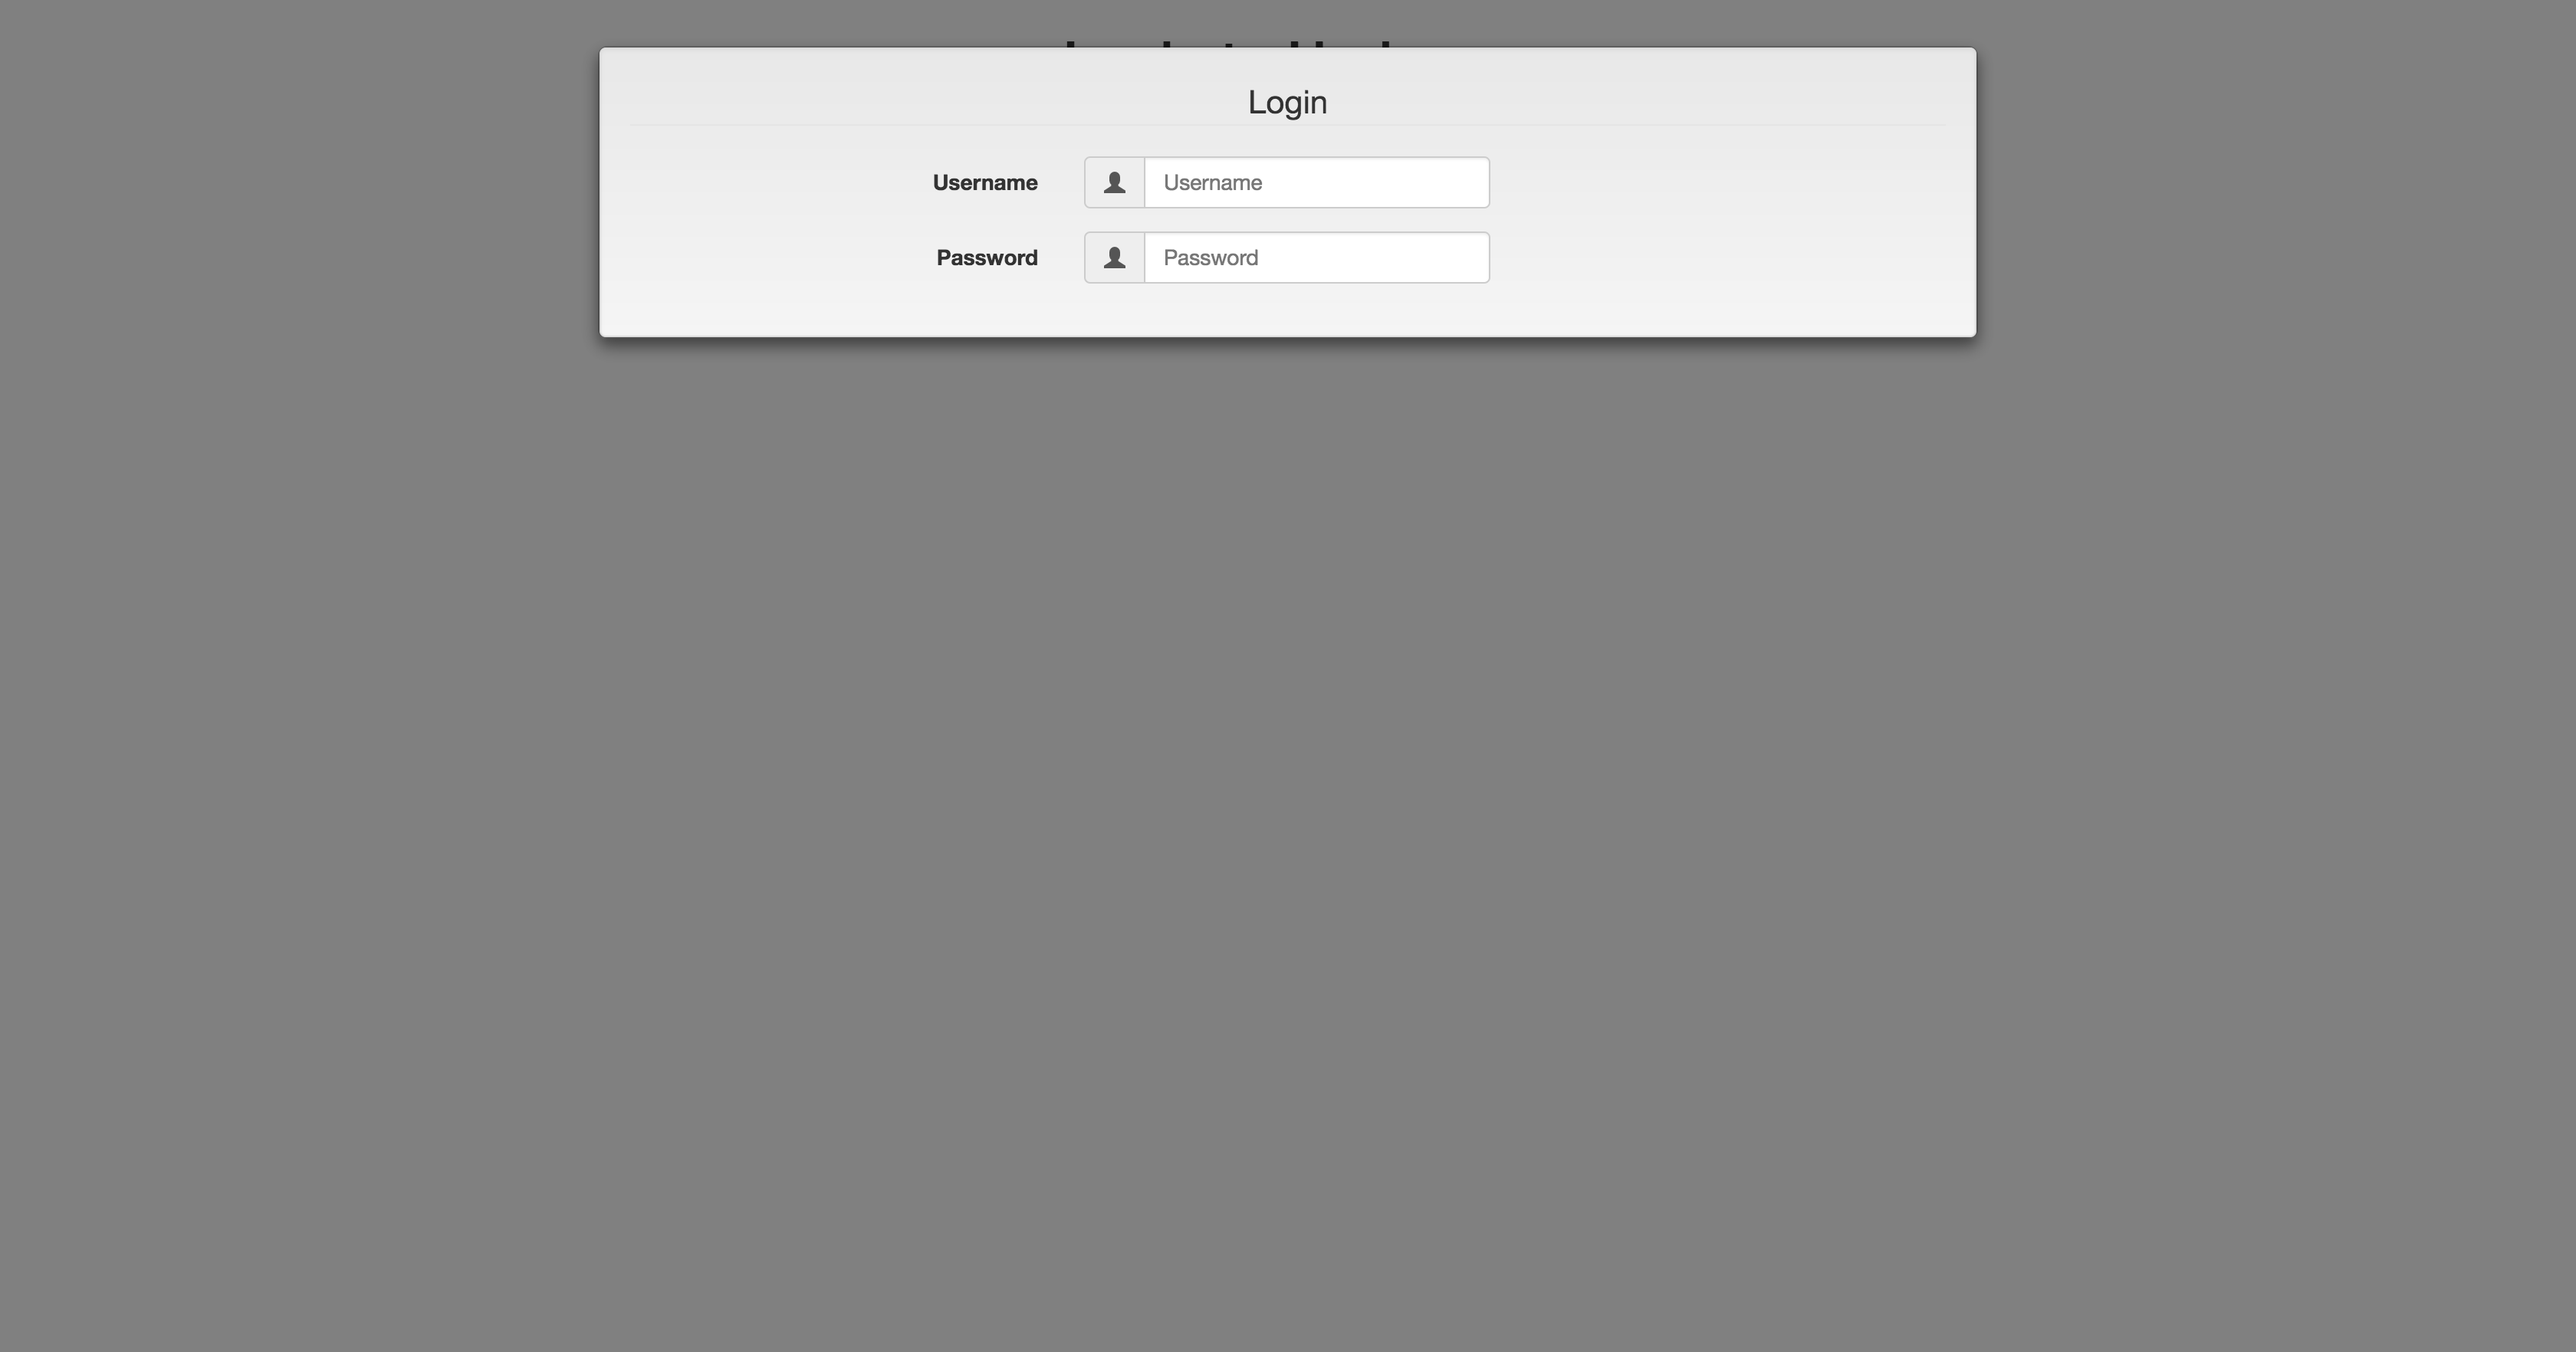
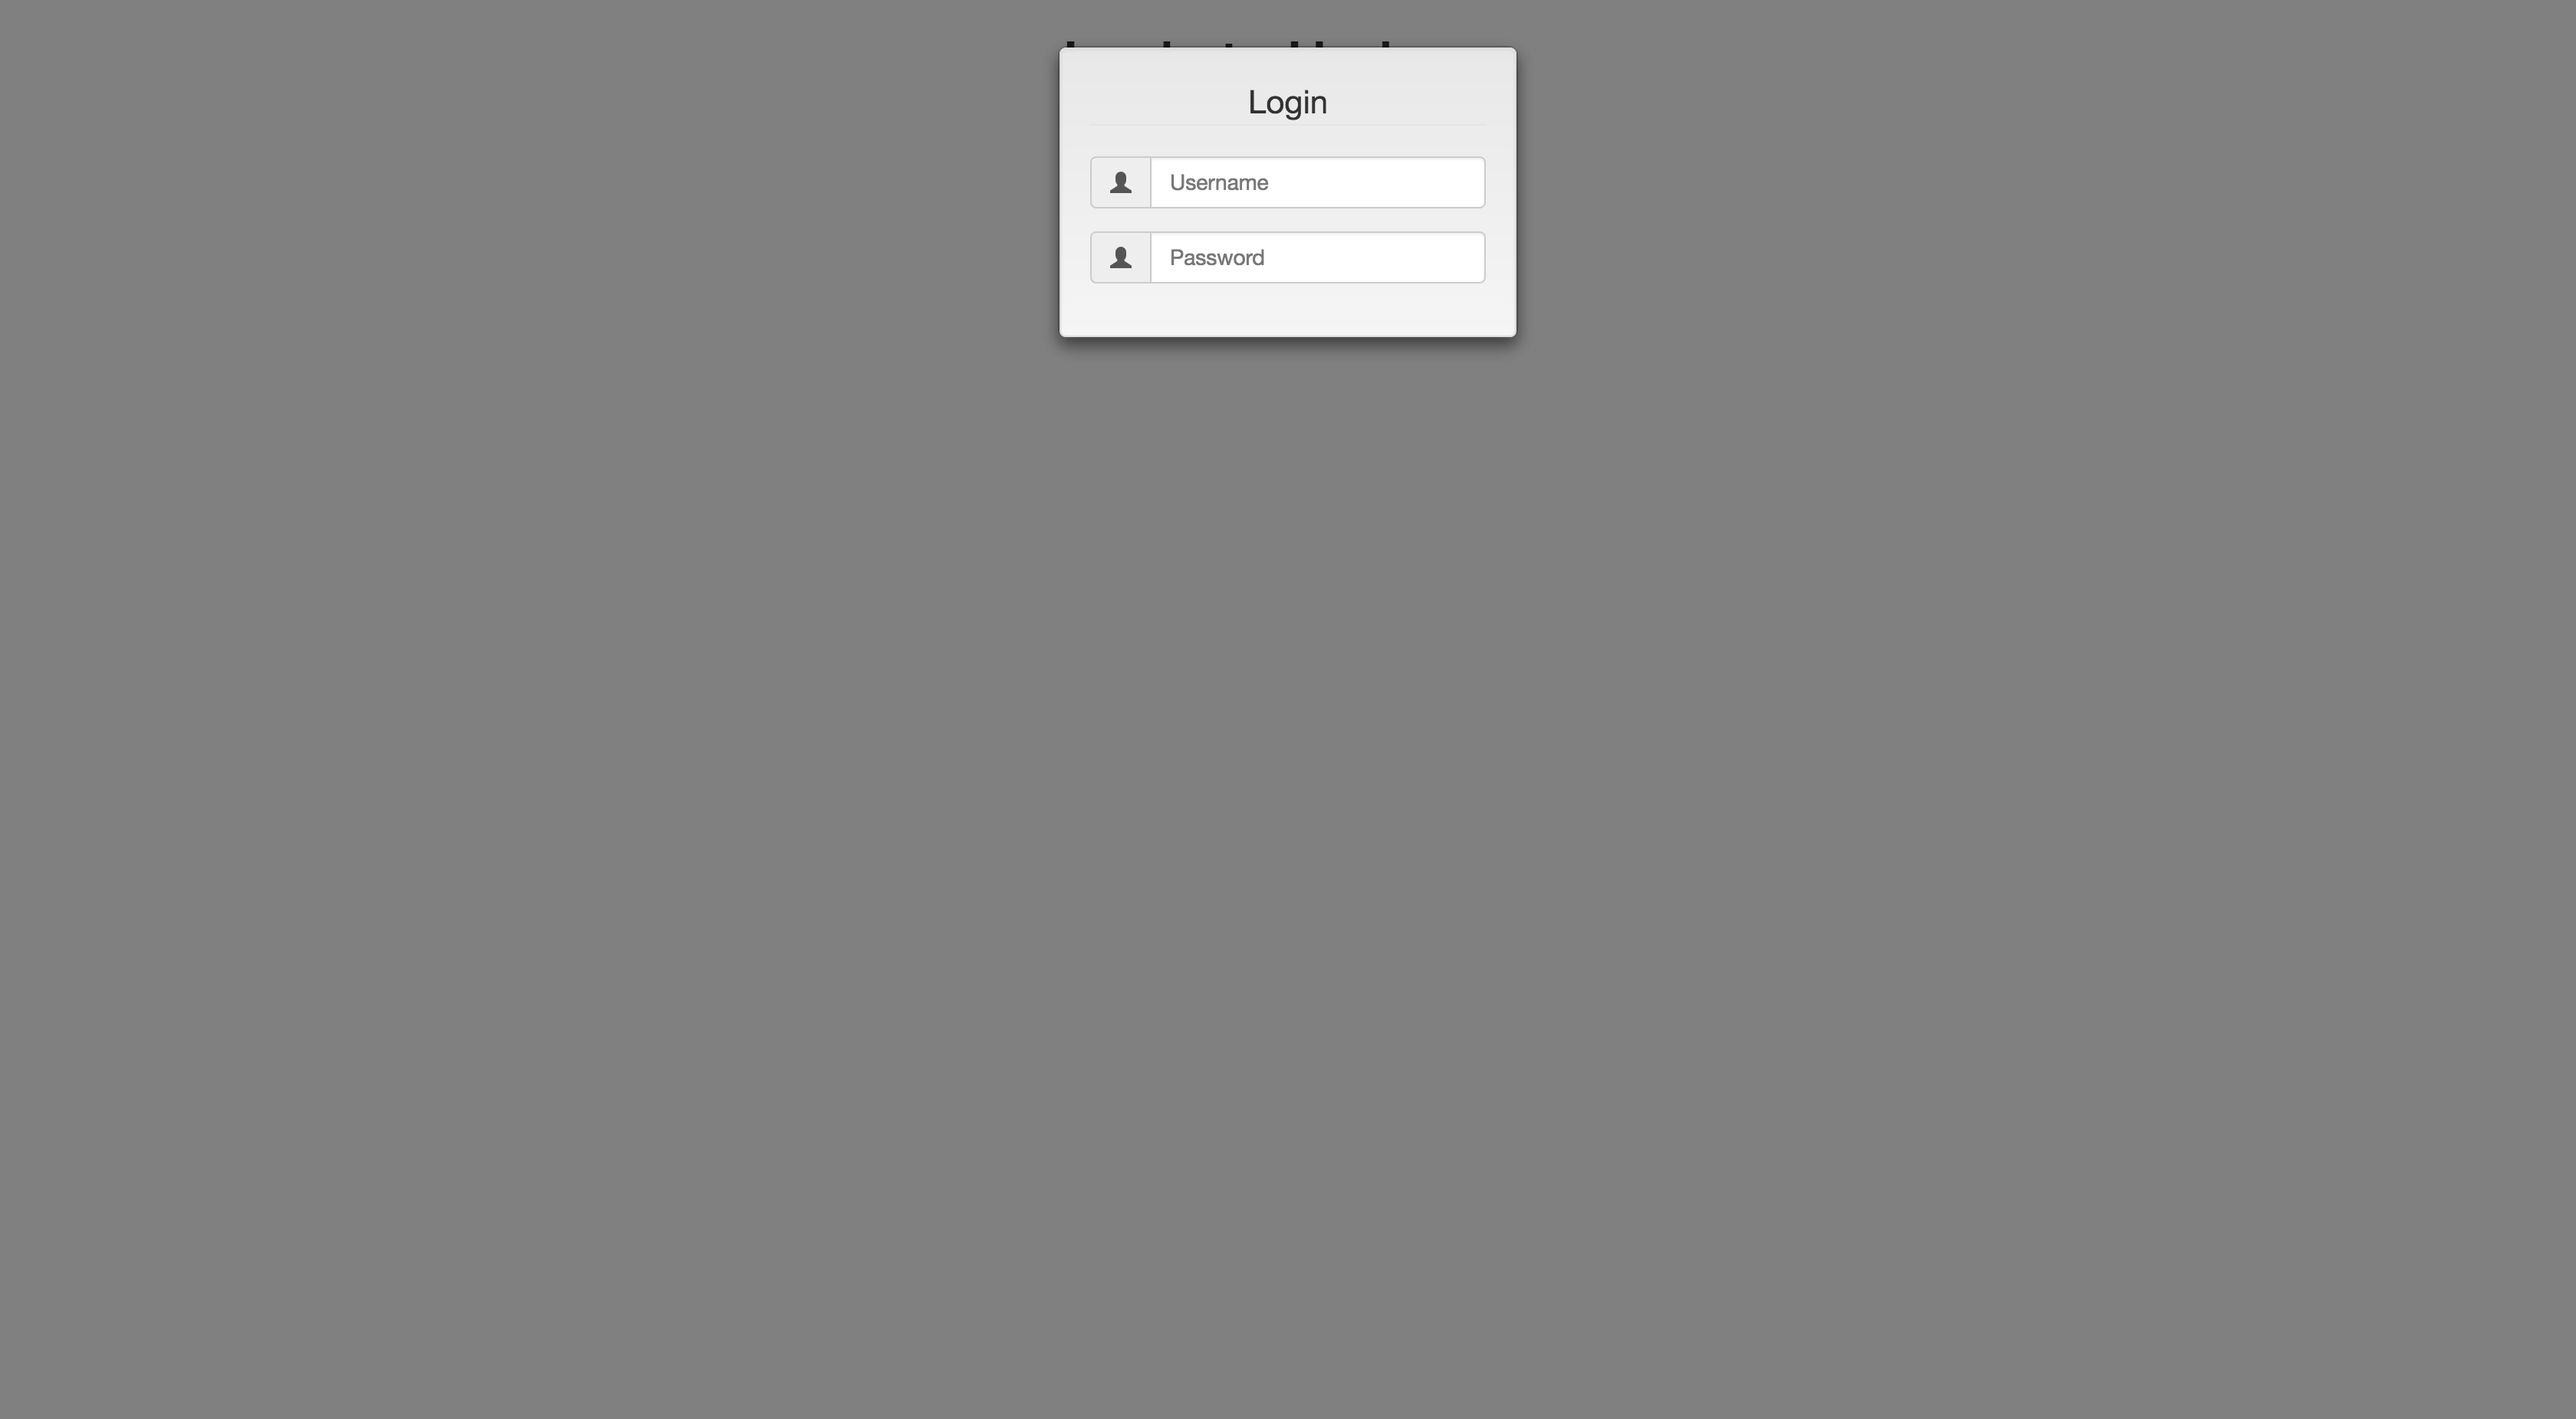
change example modal

Changed region(s): [[0.2188, 0.0312, 0.7812, 0.2806], [0.4688, 0.0624, 0.5312, 0.0935]]

diff --git a/day2/Examples/bootstrap_modal/solution/index.html b/day2/Examples/bootstrap_modal/solution/index.html
@@ -18,10 +18,11 @@
   <div class="container" style="text-align: center;">
     <h1>Login to Horizons</h1>
     <!-- Large modal -->
-    <button class="btn btn-primary btn-lg" data-toggle="modal" data-target=".bd-example-modal-lg">Login</button>
+    <!-- Small modal -->
+    <button type="button" class="btn btn-primary btn-lg" data-toggle="modal" data-target=".bd-example-modal-sm">Login</button>
 
-    <div class="modal fade bd-example-modal-lg" tabindex="-1" role="dialog" aria-labelledby="myLargeModalLabel" aria-hidden="true">
-      <div class="modal-dialog modal-lg">
+    <div class="modal fade bd-example-modal-sm" tabindex="-1" role="dialog" aria-labelledby="mySmallModalLabel" aria-hidden="true">
+      <div class="modal-dialog modal-sm">
         <div class="modal-content">
 
           <form class="well form-horizontal" action=" " method="post"  id="contact_form">
@@ -33,8 +34,7 @@
               <!-- Text input-->
 
               <div class="form-group">
-                <label class="col-md-4 control-label">Username</label>
-                <div class="col-md-4 inputGroupContainer">
+                <div class="col-md-12 inputGroupContainer">
                   <div class="input-group">
                     <span class="input-group-addon"><i class="glyphicon glyphicon-user"></i></span>
                     <input  name="first_name" placeholder="Username" class="form-control"  type="text">
@@ -45,8 +45,7 @@
               <!-- Text input-->
 
               <div class="form-group">
-                <label class="col-md-4 control-label">Password</label>
-                <div class="col-md-4 inputGroupContainer">
+                <div class="col-md-12 inputGroupContainer">
                   <div class="input-group">
                     <span class="input-group-addon"><i class="glyphicon glyphicon-user"></i></span>
                     <input  name="first_name" placeholder="Password" class="form-control"  type="password">
